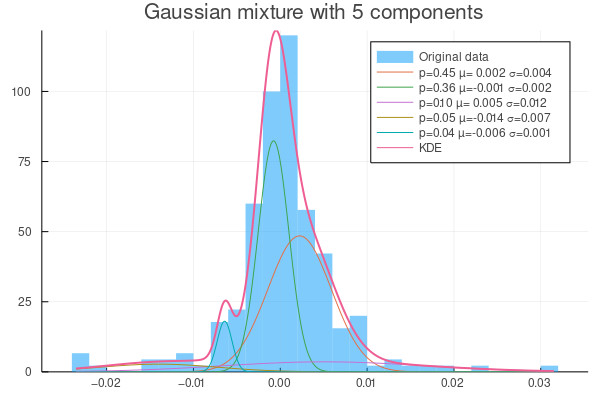
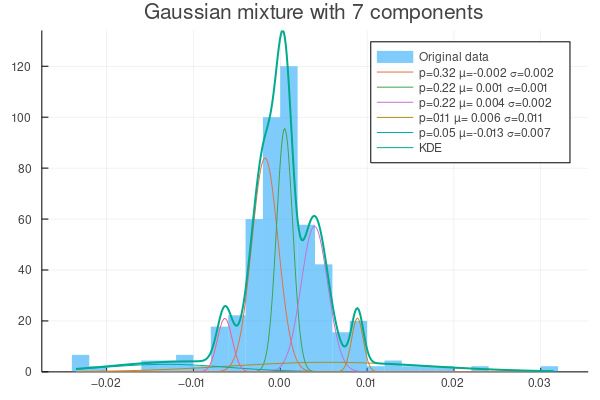
Show more components; added shaded plot

diff --git a/README.md b/README.md
@@ -33,4 +33,10 @@ For code, see [example.jl](example.jl).
 
 ### Dynamic estimation
 
+Colors represent ID of component:
+
 ![dynamic_em](img/running_em.png)
+
+Colors represent weights of components:
+
+![dynamic_em_shaded](img/running_em_shaded.png)
